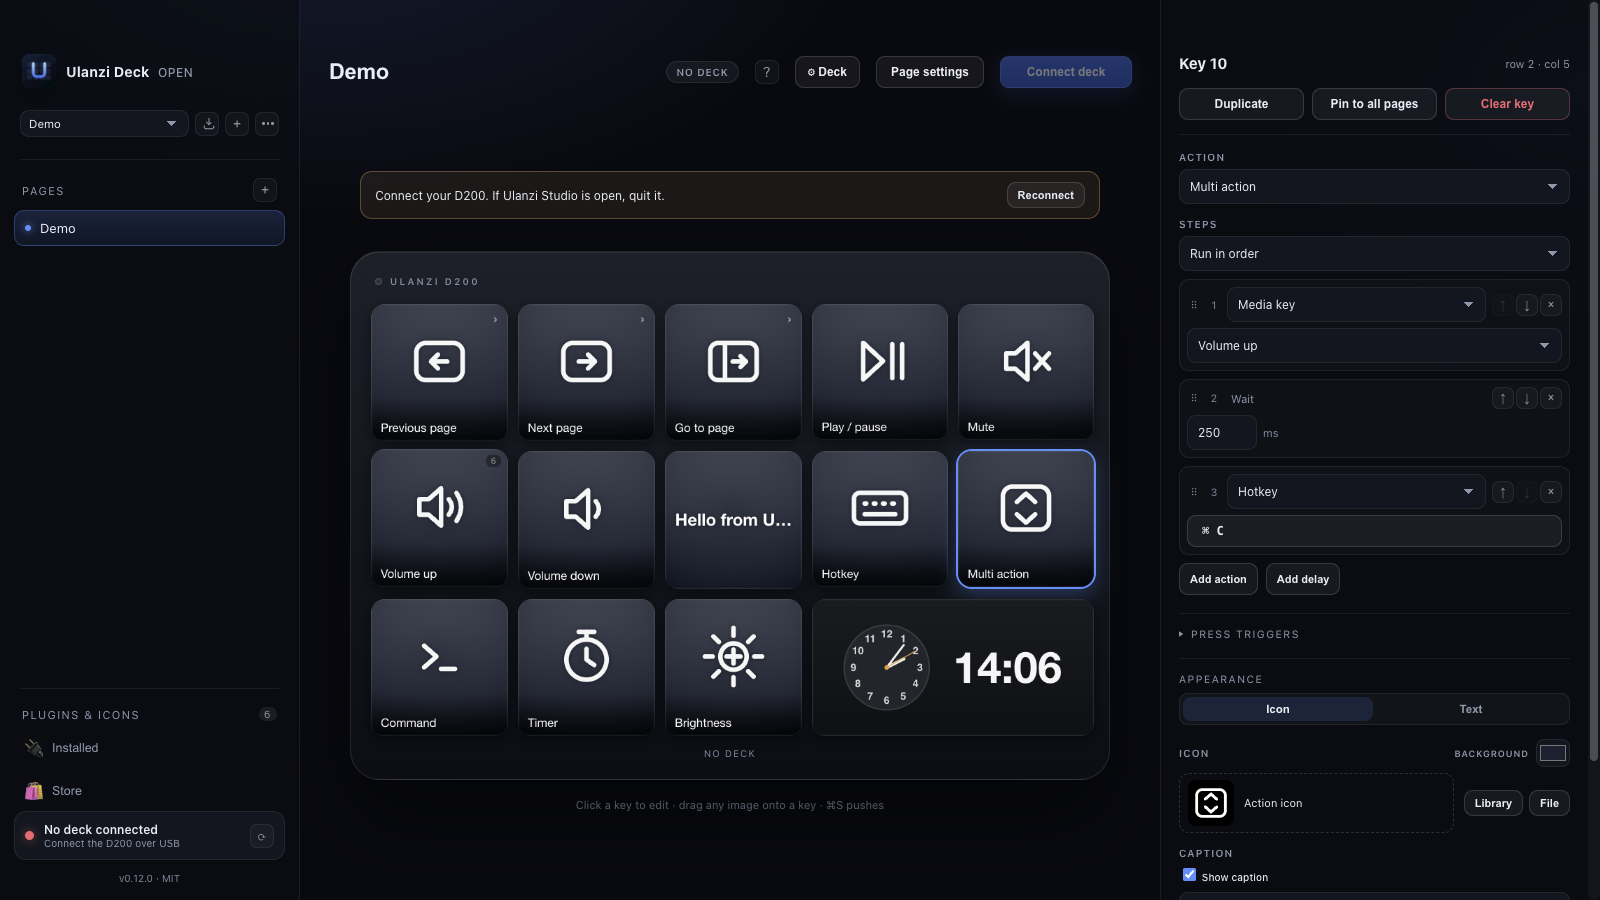
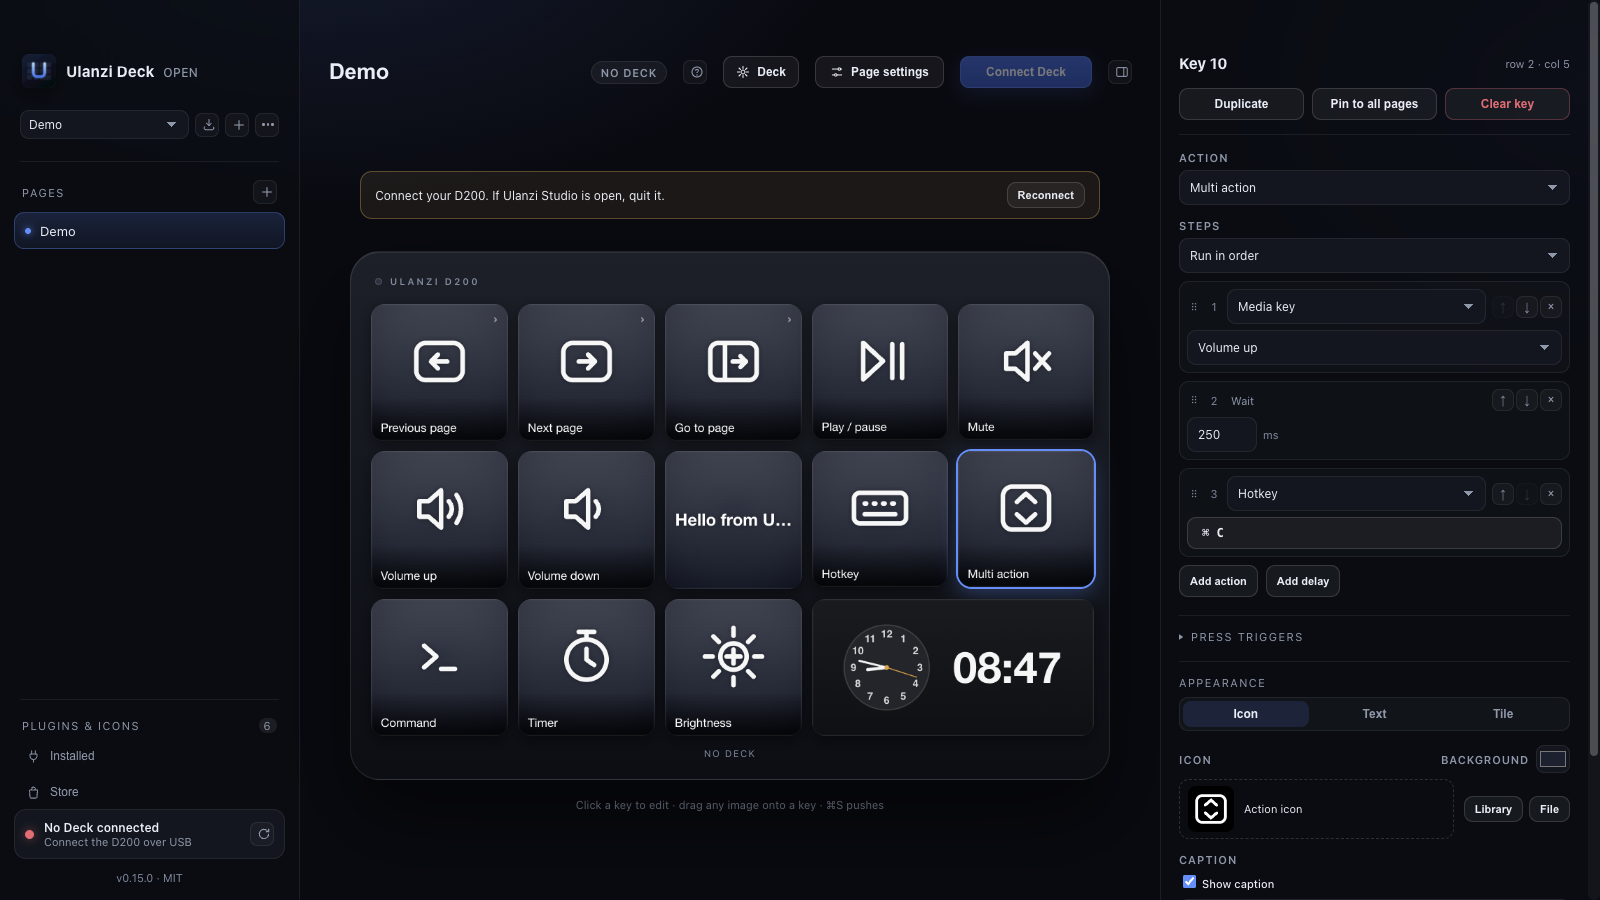
Refresh the README screenshot for 0.15.0
Regenerate docs/screenshots/main.png from the demo config at 1600x900 and
mark the screenshot finding resolved in the docs audit.

diff --git a/docs/reviews/2026-11-04-docs-audit.md b/docs/reviews/2026-11-04-docs-audit.md
@@ -6,8 +6,9 @@ The Node/Electron documentation is largely accurate through 0.15.0: version, bui
 package scripts, the release workflow, protocol framing, plugin paths and relative links
 all check out. The highest-impact problems are a Python quick start that fails on a fresh
 clone and a protocol reference that omits the shipped `0x0d` incremental-key protocol.
-The README's first image is also a 0.12.0 screenshot, so the project's main visual is
-stale. The remaining findings are status/UI-label drift and a few small reference errors.
+The README's first image was also a 0.12.0 screenshot; it has since been recaptured
+from 0.15.0 (see Resolution). The remaining findings are status/UI-label drift and a few
+small reference errors.
 
 ## Findings
 
@@ -349,8 +350,8 @@ stale. The remaining findings are status/UI-label drift and a few small referenc
   with network access before documenting it.
 - Do not rewrite `docs/PLAN-0.10.0.md`; it is a historical plan record. Only the roadmap
   should be brought forward.
-- Screenshot regeneration needs a GUI session and was not performed here; the report only
-  records that the current image is stale.
+- Screenshot regeneration needs a GUI session; it was performed afterwards from a GUI
+  Terminal and is included in this commit.
 - Historical audit records in `docs/reviews/` were treated as records, not re-judged.
   Their internal findings were not reassessed; only their links and the roadmap's
   characterisation of them were checked.
@@ -381,11 +382,12 @@ Fixed in this commit:
   this app bakes titles and sends `Text: ''`.
 - **12** — the wide-key capture README describes the incremental ZIP shape instead of
   naming uncommitted files.
+- **8** — `docs/screenshots/main.png` was recaptured at 1600×900 from 0.15.0 with
+  `npm run readme-screenshot`, so the README now shows the current icons, toolbar and
+  type scale.
 
 Still open:
 
-- **8 (screenshot)** — `docs/screenshots/main.png` is still the 0.12.0 capture;
-  regenerating it needs a GUI session.
 - **3 (permission test)** — whether media keys require Accessibility has not been
   answered on a clean account, so the docs keep the conditional wording.
 - **9** — the Python package's version, metadata, `CMD_KEY_EVENT` value and missing
